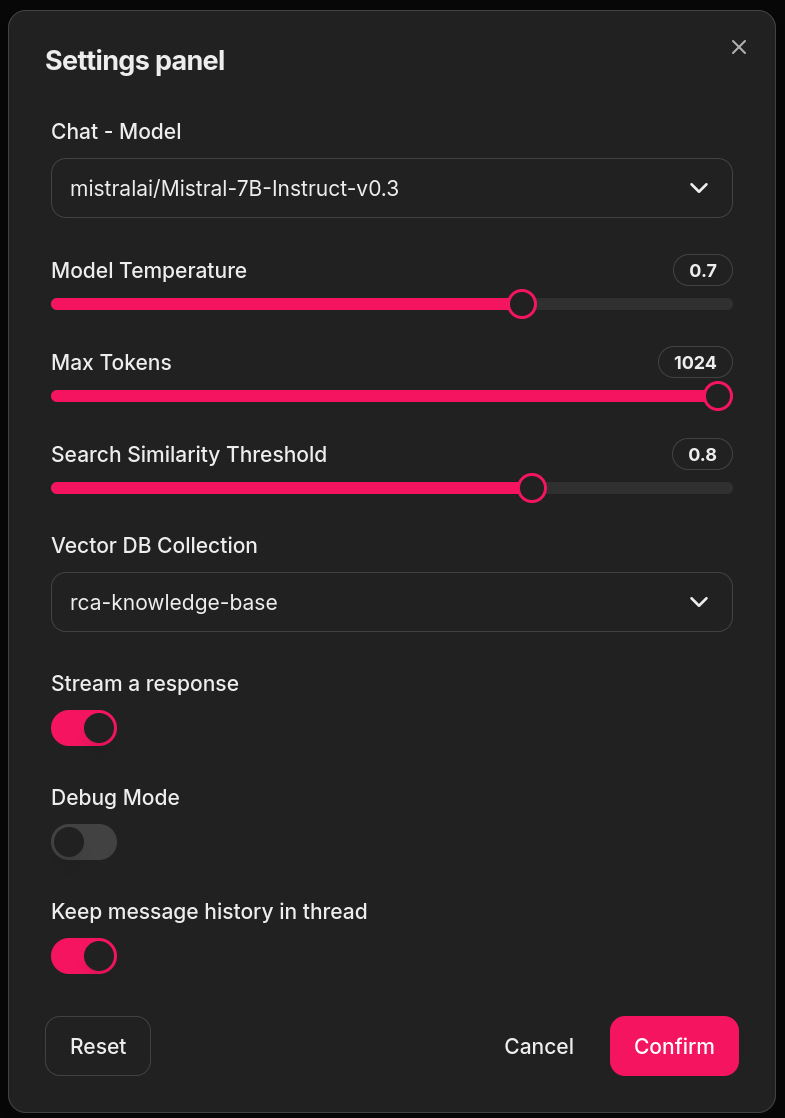
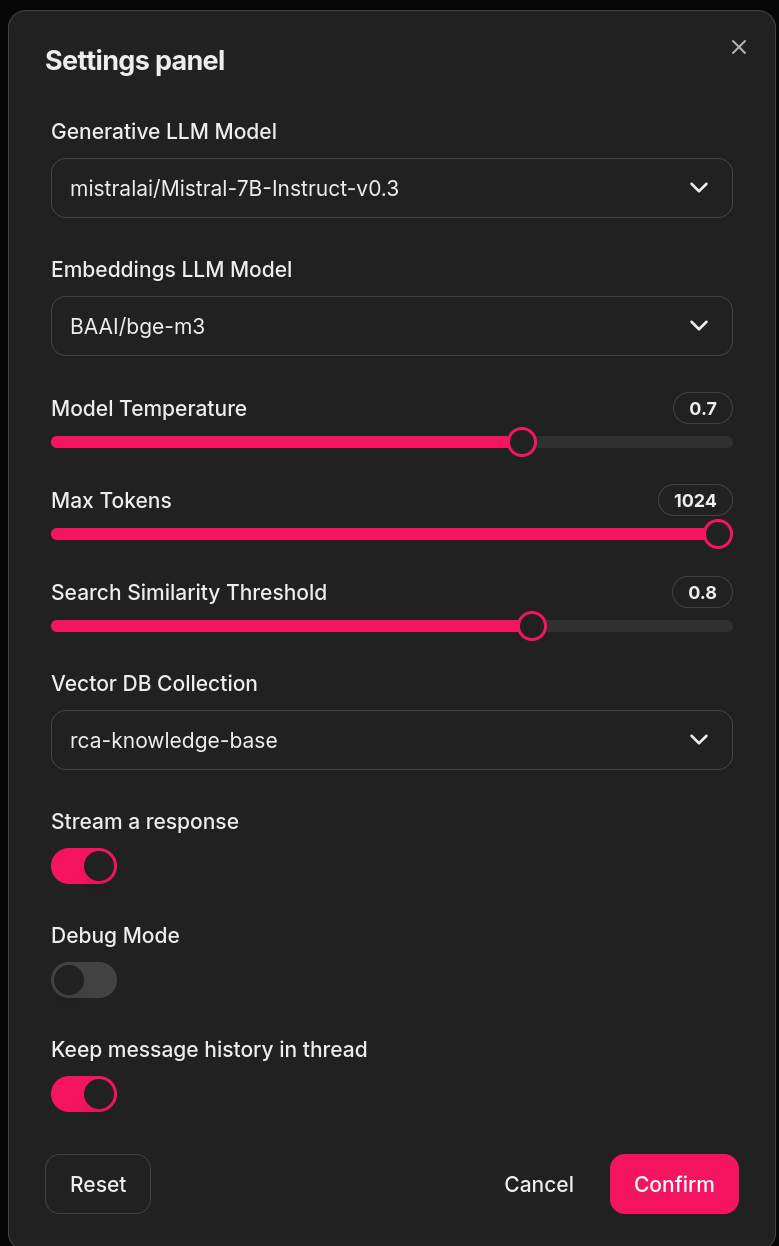
Dynamic search for LLM models

diff --git a/src/chat.py b/src/chat.py
@@ -30,6 +30,7 @@ class MockMessage:
 
 
 async def perform_search(user_content: str,
+                         model_name: str,
                          similarity_threshold: float,
                          collection_name: str = config.vectordb_collection_name) -> list[dict]:
     """
@@ -47,6 +48,7 @@ async def perform_search(user_content: str,
     # Search based on user query first
     search_results = await search_similar_content(
         search_string=user_content,
+        model_name=model_name,
         similarity_threshold=similarity_threshold,
         collection_name=collection_name
     )
@@ -255,11 +257,10 @@ async def handle_user_message(message: cl.Message, debug_mode=False):
         return
 
     if message.content:
-        st = get_similarity_threshold()
-        collection_name = get_collection_name()
         search_results = await perform_search(user_content=search_content,
-                                              similarity_threshold=st,
-                                              collection_name=collection_name)
+                                              model_name=get_embeddings_model_name(),
+                                              similarity_threshold=get_similarity_threshold(),
+                                              collection_name=get_collection_name())
         if debug_mode:
             await print_debug_content(settings, search_content,
                                       search_results)
@@ -274,7 +275,7 @@ async def handle_user_message(message: cl.Message, debug_mode=False):
             message,
             resp,
             {
-                "model": settings["model"],
+                "model": settings["generative_model"],
                 "max_tokens": settings["max_tokens"],
                 "temperature": settings["temperature"]
             },
@@ -292,7 +293,8 @@ async def handle_user_message(message: cl.Message, debug_mode=False):
 async def handle_user_message_api(
     message_content: str,
     similarity_threshold: float,
-    model_settings: ModelSettings,
+    generative_model_settings: ModelSettings,
+    embeddings_model_settings: ModelSettings,
     vectordb_collection: str
     ) -> str:
     """
@@ -315,6 +317,7 @@ async def handle_user_message_api(
     # Perform search and build prompt
     search_results = await perform_search(
         user_content=message_content,
+        model_name=embeddings_model_settings["model"],
         similarity_threshold=similarity_threshold,
         collection_name=vectordb_collection
     )
@@ -323,7 +326,7 @@ async def handle_user_message_api(
 
      # Process user message and get AI response
     is_error = await get_response(
-        {"keep_history": False}, message, response, model_settings,
+        {"keep_history": False}, message, response, generative_model_settings,
         stream_response=False,
     )
 
@@ -365,3 +368,10 @@ def get_collection_name() -> str:
     settings = cl.user_session.get("settings")
 
     return settings.get("collection_name", config.vectordb_collection_name)
+
+def get_embeddings_model_name() -> str:
+    """Get name of the embeddings model."""
+
+    settings = cl.user_session.get("settings")
+
+    return settings.get("embeddings_model", config.embeddings_model)

diff --git a/src/api.py b/src/api.py
@@ -36,6 +36,14 @@ class ChatRequest(BaseModel):
         config.vectordb_collection_name,
         description="The name of the vector database collection to use."
     )
+    generative_model_name: str = Field(
+        config.generative_model,
+        description="The name of the generative model to use."
+    )
+    embeddings_model_name: str = Field(
+        config.embeddings_model,
+        description="The name of the embeddings model to use."
+    )
 
 
 @app.post("/prompt")
@@ -50,15 +58,19 @@ async def process_prompt(message_data: ChatRequest) -> Dict[str, Any]:
         The response generated by the chat handler
     """
 
-    model_settings: ModelSettings = {
-        "model": config.generative_model,
+    generative_model_settings: ModelSettings = {
+        "model": message_data.generative_model_name,
         "max_tokens": message_data.max_tokens,
         "temperature": message_data.temperature,
+    }
+    embeddings_model_settings: ModelSettings = {
+        "model": message_data.embeddings_model_name,
     }
     response = await handle_user_message_api(
         message_data.content,
         message_data.similarity_threshold,
-        model_settings,
+        generative_model_settings,
+        embeddings_model_settings,
         message_data.vectordb_collection,
         )
 

diff --git a/src/app.py b/src/app.py
@@ -10,6 +10,8 @@ from constants import SUGGESTED_MINIMUM_SIMILARITY_THRESHOLD
 from chat import handle_user_message
 from auth import authentification
 from vectordb import vector_store
+from generation import discover_generative_model_names
+from embeddings import discover_embeddings_model_names
 
 
 @cl.on_chat_start
@@ -37,12 +39,20 @@ async def setup_chat_settings():
     temperature, token limits, and other configuration options.
     """
     collection_names, initial_collection_index = vector_store.get_collection_settings()
+    generative_model_names = await discover_generative_model_names()
+    embeddings_model_names = await discover_embeddings_model_names()
     settings = await cl.ChatSettings(
         [
             Select(
-                id="model",
-                label="Chat - Model",
-                values=[config.generative_model],
+                id="generative_model",
+                label="Generative LLM Model",
+                values=generative_model_names,
+                initial_index=0,
+            ),
+            Select(
+                id="embeddings_model",
+                label="Embeddings LLM Model",
+                values=embeddings_model_names,
                 initial_index=0,
             ),
             Slider(

diff --git a/src/embeddings.py b/src/embeddings.py
@@ -10,6 +10,7 @@ from qdrant_client.http.exceptions import ApiException
 
 from config import config
 from vectordb import vector_store
+from generation import extract_model_ids
 
 # Initialize embedding LLM client
 emb_llm = AsyncOpenAI(
@@ -17,6 +18,11 @@ emb_llm = AsyncOpenAI(
     organization="",
     api_key=config.embeddings_llm_api_key,
 )
+
+async def discover_embeddings_model_names() -> List[str]:
+    """Discover available embedding LLM models."""
+    models = await emb_llm.models.list()
+    return extract_model_ids(models)
 
 
 async def generate_embedding(
@@ -47,7 +53,7 @@ async def generate_embedding(
 
 async def search_similar_content(
     search_string: str,
-    model_name: str = config.embeddings_model,
+    model_name: str,
     top_n: int = config.search_top_n,
     similarity_threshold: float = config.search_similarity_threshold,
     collection_name: str = config.vectordb_collection_name,

diff --git a/src/generation.py b/src/generation.py
@@ -14,6 +14,23 @@ gen_llm = AsyncOpenAI(
 )
 
 
+async def discover_generative_model_names() -> str:
+    """Discover available generative LLM models."""
+    models = await gen_llm.models.list()
+    return extract_model_ids(models)
+
+
+def extract_model_ids(models) -> list[str]:
+    """Extracts model IDs from the models list."""
+    model_ids = []
+    for model in models.data:
+        model_ids.append(model.id)
+    if not model_ids:
+        cl.logger.error("No models available.")
+        return []
+    return model_ids
+
+
 def _handle_context_size_limit(err: OpenAIError) -> str:
     if 'reduce the length of the messages or completion' in err.message:
         cl.user_session.set('message_history', '')

diff --git a/docs/user-quickstart.md b/docs/user-quickstart.md
@@ -13,7 +13,8 @@ Settings panel allows adjusment of paranmeters related to the conversation.
 
 ![Settings Panel](./images/settings_panel.png)
 
-- **Chat Model** – At this point, only one model is operational for generative LLM.
+- **Generative model name** – Model name for generative LLM.
+- **Embeddings model name** – Model name for embeddings.
 - **Model Temperature** – Variability and randomness of generated responses (close to 0 means more deterministic and focused outputs, close to 1 means more diversity by sampling from a broader range of possible answers).
 - **Max Tokens** – Influences the maximum length of the response. Increasing this parameter allows the model to produce longer responses.
 - **Search Similarity Threshold** – Currently uses [cosine similarity](https://en.wikipedia.org/wiki/Cosine_similarity) (cosine of the angle between two non-zero vectors in an inner product space). A threshold that is too low may yield irrelevant documents, while a threshold that is too high may exclude relevant ones.
